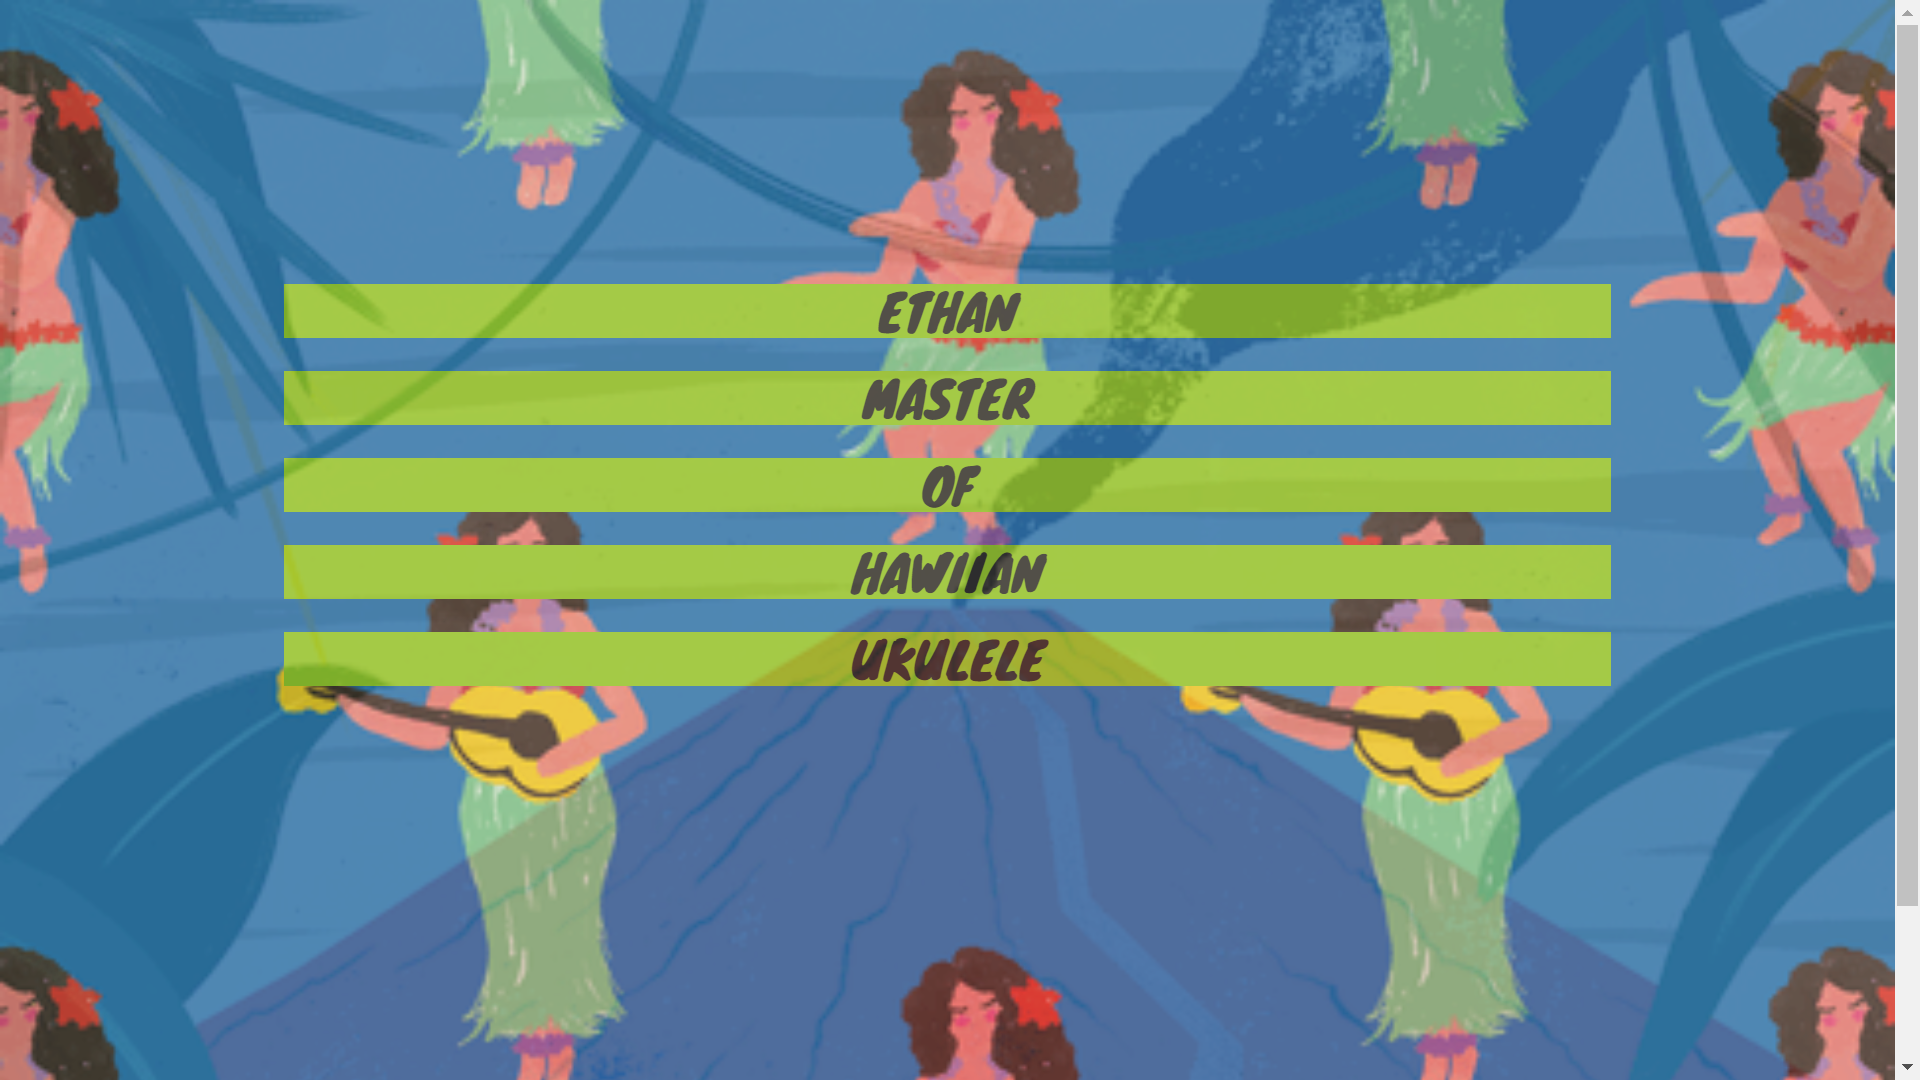
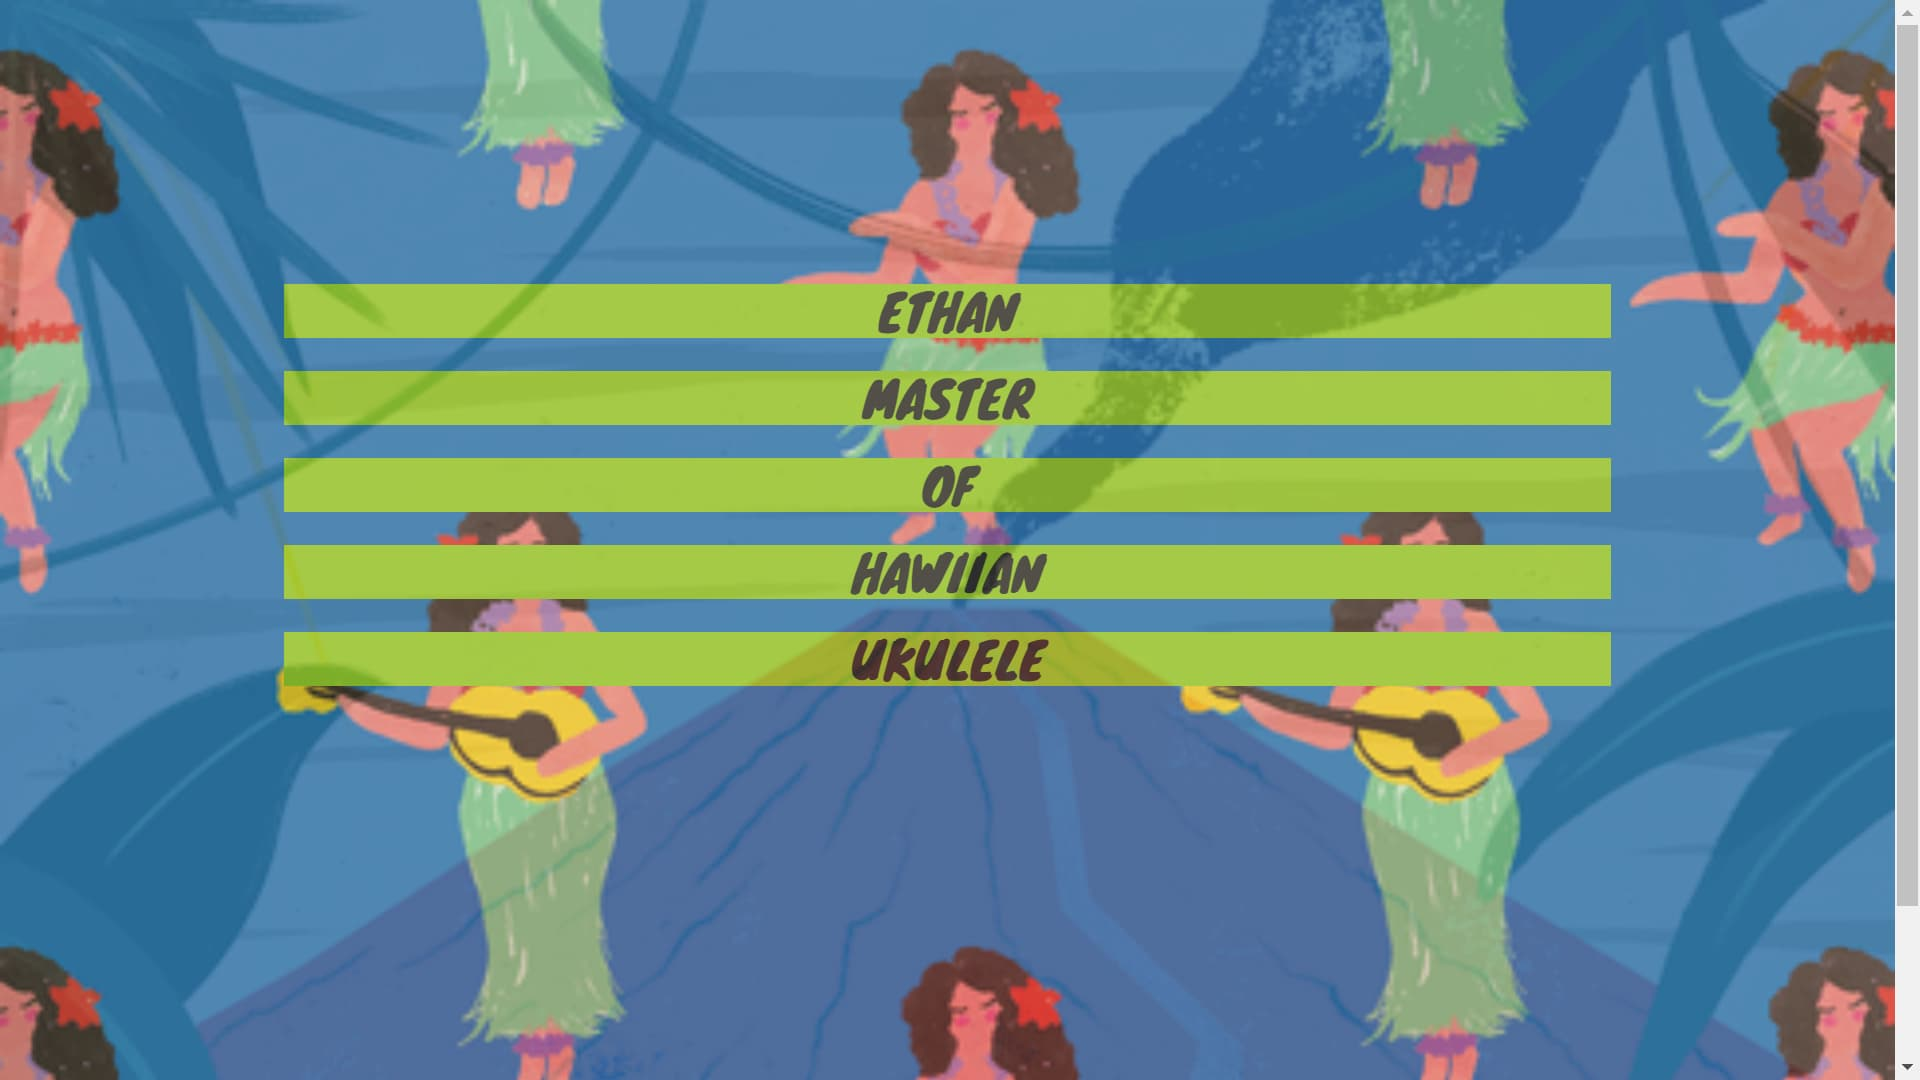
compressed images for faster loading upon visit

diff --git a/index.html b/index.html
@@ -103,7 +103,7 @@
 	            <div class="center">
 	                <h2>JS Playlist</h2>
 	                <p>A live performance at Electric Church.</p>
-	                <img class="project-img" src="sheverb.png" alt="Sheverb website">
+	                <img class="project-img" src="sheverb.jpg" alt="Sheverb website">
 	                <a class="search-holder" href="http://apekearo.github.io/sheVerb-redemption-show/" target="_blank">
 	                    <?xml version="1.0" ?>
 	                    <svg height="20px" version="1.1" viewBox="0 0 32 32" width="32px" xmlns="http://www.w3.org/2000/svg" xmlns:sketch="http://www.bohemiancoding.com/sketch/ns" xmlns:xlink="http://www.w3.org/1999/xlink">
@@ -141,7 +141,7 @@
 	            <div class="center">
 	                <h2>HeyEarl.ga</h2>
 	                <p>A job board built for rural users.</p>
-	                <img class="project-img" src="heyearl.png" alt="Hey Earl Website">
+	                <img class="project-img" src="heyearl.jpg" alt="Hey Earl Website">
 	                <a class="search-holder" href="http://heyearl.ga" target="_blank">
 	                    <?xml version="1.0" ?>
 	                    <svg height="20px" version="1.1" viewBox="0 0 32 32" width="32px" xmlns="http://www.w3.org/2000/svg" xmlns:sketch="http://www.bohemiancoding.com/sketch/ns" xmlns:xlink="http://www.w3.org/1999/xlink">
@@ -178,7 +178,7 @@
 	            <div class="center">
 	                <h2>RiverForestFarm.com</h2>
 	                <p>Source for local crop data and local listings.</p>
-	                <img class="project-img" src="riverforest.png" alt="River Forest Farm Website">
+	                <img class="project-img" src="riverforest.jpg" alt="River Forest Farm Website">
 	                <a class="search-holder" href="http://www.riverforestfarm.com" target="_blank">
 	                    <?xml version="1.0" ?>
 	                    <svg height="20px" version="1.1" viewBox="0 0 32 32" width="32px" xmlns="http://www.w3.org/2000/svg" xmlns:sketch="http://www.bohemiancoding.com/sketch/ns" xmlns:xlink="http://www.w3.org/1999/xlink">
@@ -217,7 +217,7 @@
 	            <div class="center">
 	                <h2>ReactJS Dice</h2>
 	                <p>Beginning of a ReactJS game</p>
-	                <img class="project-img" src="dice.png" alt="React Dice Website">
+	                <img class="project-img" src="dice.jpg" alt="React Dice Website">
 	                <a class="search-holder" href="https://apekearo.github.io/ThreesDiceGame/" target="_blank">
 	                    <?xml version="1.0" ?>
 	                    <svg height="20px" version="1.1" viewBox="0 0 32 32" width="32px" xmlns="http://www.w3.org/2000/svg" xmlns:sketch="http://www.bohemiancoding.com/sketch/ns" xmlns:xlink="http://www.w3.org/1999/xlink">
@@ -292,7 +292,7 @@
 	            <div class="center">
 	                <h2>Bootstrap Animations</h2>
 	                <p>Made the whole page animate with scroll</p>
-	                <img class="project-img" src="fatCactus.png" alt="Fat Cactus website">
+	                <img class="project-img" src="fatCactus.jpg" alt="Fat Cactus website">
 	                <a class="search-holder" href="http://fatcactusband.gq/" target="_blank">
 	                    <?xml version="1.0" ?>
 	                    <svg height="20px" version="1.1" viewBox="0 0 32 32" width="32px" xmlns="http://www.w3.org/2000/svg" xmlns:sketch="http://www.bohemiancoding.com/sketch/ns" xmlns:xlink="http://www.w3.org/1999/xlink">
@@ -329,7 +329,7 @@
 	            <div class="center">
 	                <h2>Github Art</h2>
 	                <p>An enticing party invitation for coders!</p>
-	                <img class="project-img" src="arkadia.png" alt="party invitation website">
+	                <img class="project-img" src="arkadia.jpg" alt="party invitation website">
 	                <a class="search-holder" href="http://apekearo.github.io/setTimeout2017/" target="_blank">
 	                    <?xml version="1.0" ?>
 	                    <svg height="20px" version="1.1" viewBox="0 0 32 32" width="32px" xmlns="http://www.w3.org/2000/svg" xmlns:sketch="http://www.bohemiancoding.com/sketch/ns" xmlns:xlink="http://www.w3.org/1999/xlink">
@@ -369,7 +369,7 @@
         	    <div class="center">
         	        <h2>RiverForestFarm</h2>
         	        <p>A farmer's online source for local crop data and local listings.</p>
-        	        <img class="project-img" src="riverforest.png" alt="River Forest Farm">
+        	        <img class="project-img" src="riverforest.jpg" alt="River Forest Farm">
         	        <a class="search-holder" href="http://www.riverforestfarm.com" target="_blank">
         	            <?xml version="1.0" ?>
         	            <svg height="20px" version="1.1" viewBox="0 0 32 32" width="32px" xmlns="http://www.w3.org/2000/svg" xmlns:sketch="http://www.bohemiancoding.com/sketch/ns" xmlns:xlink="http://www.w3.org/1999/xlink">
@@ -407,7 +407,7 @@
         	    <div class="center">
         	        <h2>React Dice</h2>
         	        <p>Beginning of a ReactJs dice game</p>
-        	        <img class="project-img" src="dice.png" alt="Dice Game">
+        	        <img class="project-img" src="dice.jpg" alt="Dice Game">
         	        <a class="search-holder" href="https://apekearo.github.io/ThreesDiceGame/" target="_blank">
         	            <?xml version="1.0" ?>
         	            <svg height="20px" version="1.1" viewBox="0 0 32 32" width="32px" xmlns="http://www.w3.org/2000/svg" xmlns:sketch="http://www.bohemiancoding.com/sketch/ns" xmlns:xlink="http://www.w3.org/1999/xlink">
@@ -445,7 +445,7 @@
         	    <div class="center">
         	        <h2>HeyEarl</h2>
         	        <p>A job board built for rural users.</p>
-        	        <img class="project-img" src="heyearl.png" alt="">
+        	        <img class="project-img" src="heyearl.jpg" alt="">
         	        <a class="search-holder" href="http://heyearl.ga" target="_blank">
         	            <?xml version="1.0" ?>
         	            <svg height="20px" version="1.1" viewBox="0 0 32 32" width="32px" xmlns="http://www.w3.org/2000/svg" xmlns:sketch="http://www.bohemiancoding.com/sketch/ns" xmlns:xlink="http://www.w3.org/1999/xlink">
@@ -572,7 +572,7 @@
 					<!-- <div class="sm-links">
 						<div class="sm-link linkedin">
 							<a href="https://www.github.com/apekearo/" target="_blank">
-								<img src="/GitHub-Mark/PNG/GitHub-Mark-32px.png" alt ="Github link">
+								<img src="/GitHub-Mark/png/GitHub-Mark-32px.png" alt ="Github link">
 							</a>
 						</div>
 					</div> -->
